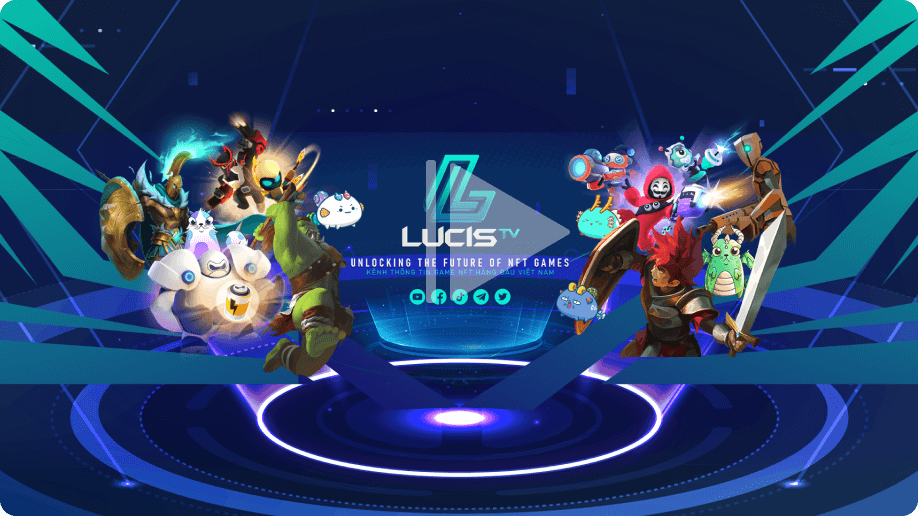
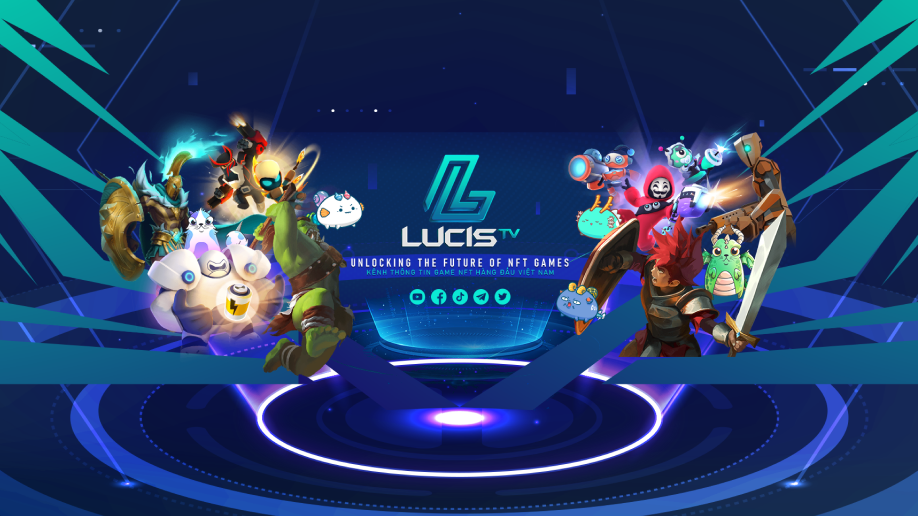
fix position team

diff --git a/components/Home/banner.module.sass b/components/Home/banner.module.sass
@@ -333,6 +333,10 @@
     transform: translateY(-50%)
     max-width: 464px
     z-index: 1
+  @media (min-width: 640px)
+    max-width: 546px
+  @media (min-width: 992px)
+    max-width: 460px
   @media (min-width: 1024px)
     right: 4rem
     max-width: 400px
@@ -345,27 +349,25 @@
 
   .content
     height: 318px
-    padding: 10px
+    padding: 4px
     @apply relative
     z-index: 1
     @media (min-width: 0px)
-      height: 190px
+      height: 189px
     @media (min-width: 414px)
-      height: 220px
+      height: 218px
     @media (min-width: 540px)
-      height: 290px
+      height: 288px
     @media (min-width: 640px)
       height: 310px
-    @media (min-width: 768px)
-      height: 400px
     @media (min-width: 992px)
-      height: 265px
+      height: 262px
     @media (min-width: 1024px)
       height: 230px
     @media (min-width: 1280px)
-      height: 308px
+      height: 307px
     @media (min-width: 1440px)
-      height: 324px
+      height: 323px
     iframe
       @apply w-full h-full relative
       border-radius: 16px 
@@ -376,8 +378,42 @@
     @media (min-width: 0px)
       top: 5px
       left: 5px
-    img
+    @media (min-width: 1440px)
+      width: 567px
+  .bg_video > img
       width: 99%
+      border-radius: 12px
+  .ic_play
+    position: absolute
+    top: 50%
+    display: flex
+    align-items: center
+    justify-content: center
+    width: 100%
+    transform: translateY(-50%)
+    img
+      max-width: 120px
+
+  .bg_video::before
+    content: ""
+    position: absolute
+    top: 0px
+    left: 0px
+    width: 99%
+    height: 97%
+    background: #0000006b
+    border-radius: 12px
+    @media (min-width: 0px)
+      height: 94%
+    @media (min-width: 414px)
+      height: 95%
+    @media (min-width: 540px)
+      height: 97%
+    @media (min-width: 1024px)
+      height: 96%
+    @media (min-width: 1440px)
+      height: 97%
+
   .content::before
     content:""
     position: absolute

diff --git a/pages/index.tsx b/pages/index.tsx
@@ -13,15 +13,16 @@ import Team from "components/Home/Team";
 import Advisor from "components/Home/Advisor";
 import TokenAllocation from "components/TokenAllocation";
 import AnimWhenVisible from "components/Anim";
-import useScroll from 'hooks/useScroll';
+import useScroll from "hooks/useScroll";
 import PartnersStrategic from "components/Home/Backers";
 import IvestorBackers from "components/Home/IvestorBackers";
 
 const Home: NextPage = () => {
   const title = "Lucis Platform - Gaming SocialFi and Insights";
-  const desc = "Unite Gamers Across The Globe With The Power of Decentralize Finance. We transform & educate players from traditional games to NFT games";
+  const desc =
+    "Unite Gamers Across The Globe With The Power of Decentralize Finance. We transform & educate players from traditional games to NFT games";
   const thumb = "https://lucis.network/assets/lucis_preview_169.jpg";
-  useScroll()
+  useScroll();
   const [showButton, setShowButton] = useState(false);
   useEffect(() => {
     window.addEventListener("scroll", () => {
@@ -32,11 +33,11 @@ const Home: NextPage = () => {
       }
     });
   }, []);
- 
+
   const scrollToTop = () => {
     window.scrollTo({
       top: 0,
-      behavior: 'smooth'
+      behavior: "smooth",
     });
   };
 
@@ -93,7 +94,6 @@ const Home: NextPage = () => {
         <SlideGame />
       </AnimWhenVisible> */}
 
-
       {/* <AnimWhenVisible>
         <IvestorBackers />
       </AnimWhenVisible> */}
@@ -101,10 +101,14 @@ const Home: NextPage = () => {
         <TokenAllocation />
       </AnimWhenVisible>
       <Roadmap />
-      <Team />
-      <Advisor />
+      <AnimWhenVisible>
+        <Advisor />
+      </AnimWhenVisible>
       <AnimWhenVisible>
         <PartnersStrategic />
+      </AnimWhenVisible>
+      <AnimWhenVisible>
+        <Team />
       </AnimWhenVisible>
       {showButton && (
         <button onClick={scrollToTop} className="btn-scrollTop">

diff --git a/components/Home/CardTeam/CardTeam.module.sass b/components/Home/CardTeam/CardTeam.module.sass
@@ -45,6 +45,8 @@
       color: #FFFFFF
       padding-top: 0.5em
       display: inline-block
+      @media (min-width: 992px)
+        font-size: 13px
     .blockName
       @apply flex flex-row items-center justify-center
       img
@@ -52,28 +54,51 @@
 
 
 
-@media (min-width: 1280px)
-    .im_team1
-      img
-        max-width: 115%
-        top: -12px !important
-        left: -2px !important
-@media (min-width: 992px) and (max-width: 1279px)
+@media (min-width: 992px)
   .containerTeam
     .content_im
-      width: 200px
-      min-height: 200px
+      width: 153px
+      min-height: 153px
   .im_team1
     img
       max-width: 104% !important
       top: -6px !important
       left: 0px !important
-@media (min-width: 992px) and (max-width: 1279px)
-
-@media (min-width: 992px) and (max-width: 1439px)
+@media (min-width: 1280px)
   .containerTeam
-    min-width: 25%
-    max-width: 25%
+    .content_im
+      width: 180px
+      min-height: 180px
+    .im_team1
+      img
+        max-width: 115%
+        top: -12px !important
+        left: -2px !important
+    .heading_team
+      .name
+        font-size: 20px
+      .team
+        font-size: 16px
+@media (min-width: 1440px)
+  .containerTeam
+    .content_im
+      width: 200px
+      min-height: 200px
+    .im_team1
+      img
+        max-width: 115%
+        top: -12px !important
+        left: -2px !important
+    .heading_team
+      .name
+        font-size: 20px
+      .team
+        font-size: 16px
+
+@media (min-width: 992px)
+  .containerTeam
+    min-width: 18%
+    max-width: 18%
     margin: 12px 0px
     .content_im
       .im_team
@@ -83,12 +108,6 @@
       .im_team1
         width: 94%
         padding: 11px 0px 0px 10px !important
-
-    .heading_team
-      .name
-        font-size: 20px
-      .team
-        font-size: 18px
 
 @media (min-width: 541px) and (max-width: 639px)
   .containerTeam

diff --git a/components/Home/Slider/SliderFeature/Slide_Team/SlideTeam.tsx b/components/Home/Slider/SliderFeature/Slide_Team/SlideTeam.tsx
@@ -136,14 +136,14 @@ export default class SimpleSliderTeam extends Component {
           <div className={s.heading_feature}>
             <TitleName titleName="Team" />
 
-            <div className={s.group_btn}>
+            {/* <div className={s.group_btn}>
               <button className={s.btn_left} onClick={this.previous}>
                 <img src="/assets/Feature/ic_left.svg" alt="" />
               </button>
               <button className={s.btn_right} onClick={this.next}>
                 <img src="/assets/Feature/ic_right.svg" alt="" />
               </button>
-            </div>
+            </div> */}
           </div>
         </AnimWhenVisible>
 

diff --git a/components/Home/banner.tsx b/components/Home/banner.tsx
@@ -64,6 +64,9 @@ function Banner(props: Props) {
 
             <div style={styleIm} onClick={playVideo} className={s.bg_video}>
               <img src="/assets/OurEcosystem/bg_video.png" alt="" />
+              <div className={s.ic_play}>
+                <img src="/assets/OurEcosystem/ic_play.svg" alt="" />
+              </div>
             </div>
           </div>
         </div>

diff --git a/components/Header.tsx b/components/Header.tsx
@@ -110,7 +110,7 @@ export default function Header(props: Props) {
                   setHref('/')
                   setTimeout(() => {
                     scrollToSection("#EcoSystem" ?? "", true, -90);
-                  }, 1000);
+                  }, 500);
                 }}
               >
                 <Link href={`${href}`}>Zone</Link>

diff --git a/components/Menu/MenuItem.tsx b/components/Menu/MenuItem.tsx
@@ -43,7 +43,7 @@ export const MenuItem = (props: { item: MenuItemType }) => {
         router.push("/")
         setTimeout(() => {
           scrollToSection(props.item.scrollTarget ?? "", true, -90);
-        }, 1000);
+        }, 500);
       }
     }
     if (!props.item.subMenu) {

diff --git a/components/Home/Backers.module.sass b/components/Home/Backers.module.sass
@@ -1,7 +1,6 @@
 @import "styles/common"
 .block_item
   @apply flex flex-row items-center justify-center flex-wrap
-  padding-bottom: 120px
   .item_backer
     @apply flex flex-row items-center justify-center
     margin-bottom: 40px

diff --git a/components/Home/Slider/Slide_Advisor/SlideTeam.module.sass b/components/Home/Slider/Slide_Advisor/SlideTeam.module.sass
@@ -7,6 +7,8 @@
 .block_team > div
   @media ( min-width: 0px )
     margin-right: 0px
+  @media ( min-width: 992px )
+    margin-right: 30px
   @media ( min-width: 1440px )
     margin-right: 30px
     
